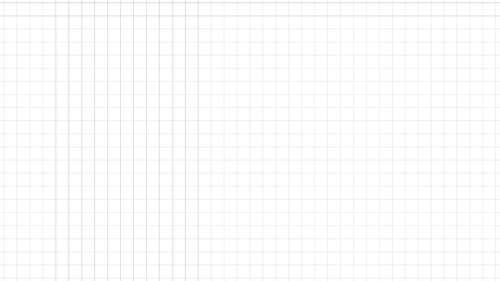
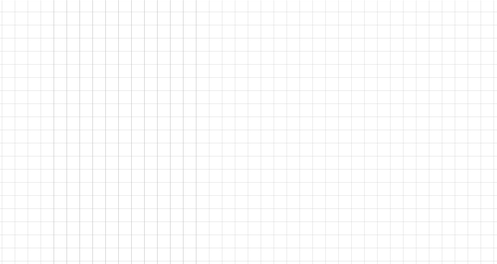
added background-image

diff --git a/design_4.htm b/design_4.htm
@@ -12,7 +12,7 @@
         }
         body {
             margin: 0;
-            background-image: url();
+            background-image: url(images/square_background.png);
             background-repeat: repeat;
             font-family: Cambria, Cochin, Georgia, Times, 'Times New Roman', serif;
         }
@@ -28,7 +28,7 @@
             width: 65%;
             font-size: 2.75rem;
             margin-right: 1em;
-            color: rgba(107,111,108);
+            color: rgb(107,111,108);
             line-height: 2.75rem;
         }
         .clearfix::after {
@@ -39,6 +39,7 @@
 
         .right {
             line-height: 1.65rem;
+            color: rgb(71, 71, 71);
         }
         .col-1 {
             width: 10%;
@@ -100,6 +101,9 @@
             font-size: 0.60em;
             color: rgb(158,158,158);
         }
+        span {
+            font-weight: bold;
+        }
 
     </style>
 </head>
@@ -108,10 +112,10 @@
     <main>
         <div class="first-half">
             <div class="left clearfix">
-                We do everything with our core values of honesty, hard work, and trust.
+                We do everything with our core values of <span>honesty</span>, hard <span>work</span>, and <span>trust.</span>
             </div>
             <div class="right">
-                We believe these characteristics should influence everything we do in business and in
+                <span>We believe these characteristics</span> should influence everything we do in business and in
                 life. We sincerely enjoy the work we do, and our clients get to reap the benefits.
             </div>
         </div>
